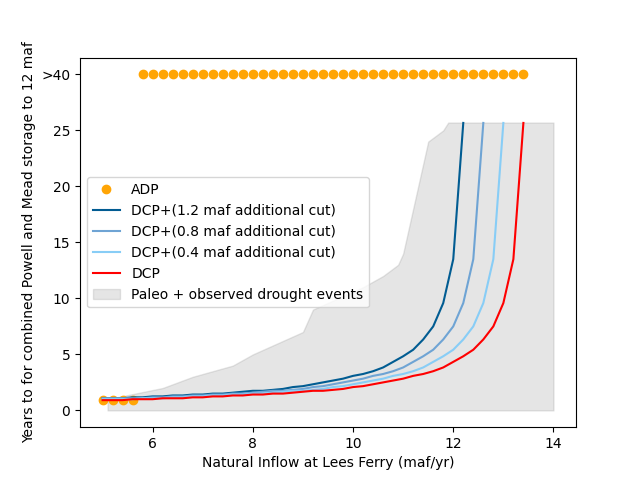
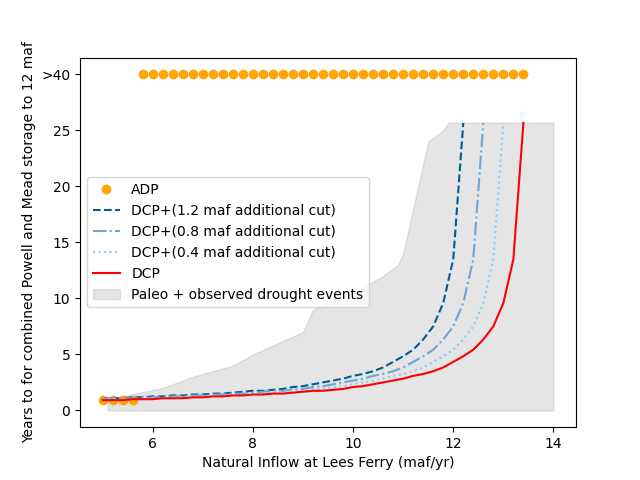
Black and White

diff --git a/ExploratoryModel/tools/plots.py b/ExploratoryModel/tools/plots.py
@@ -931,9 +931,9 @@ def plotYearsto12maf(DCP, DCPplus12, DCPplus8, DCPplus4, ADP, Paleo,
     plt.plot(ADP[0], ADP[1], 'o', color = '#ffa505', label= 'ADP')
 
     # line, BLUE: 015C92, 6fa4d4, 88CDF6; RED: a70000, ff0000, ff7b7b; Yellow: ffa505, ffc905, ffe505
-    plt.plot(DCPplus12[0], DCPplus12[1], '#015C92', label='DCP+(1.2 maf additional cut)')
-    plt.plot(DCPplus8[0], DCPplus8[1], '#6fa4d4', label='DCP+(0.8 maf additional cut)')
-    plt.plot(DCPplus4[0], DCPplus4[1], '#88CDF6', label='DCP+(0.4 maf additional cut)')
+    plt.plot(DCPplus12[0], DCPplus12[1], '#015C92', label='DCP+(1.2 maf additional cut)', linestyle='--')
+    plt.plot(DCPplus8[0], DCPplus8[1], '#6fa4d4', label='DCP+(0.8 maf additional cut)', linestyle='-.')
+    plt.plot(DCPplus4[0], DCPplus4[1], '#88CDF6', label='DCP+(0.4 maf additional cut)', linestyle=':')
     plt.plot(DCP[0], DCP[1], '#ff0000', label='DCP')
 
     plt.fill_between(Paleo[0], Paleo[1], color="grey", alpha=0.2, label='Paleo + observed drought events')
